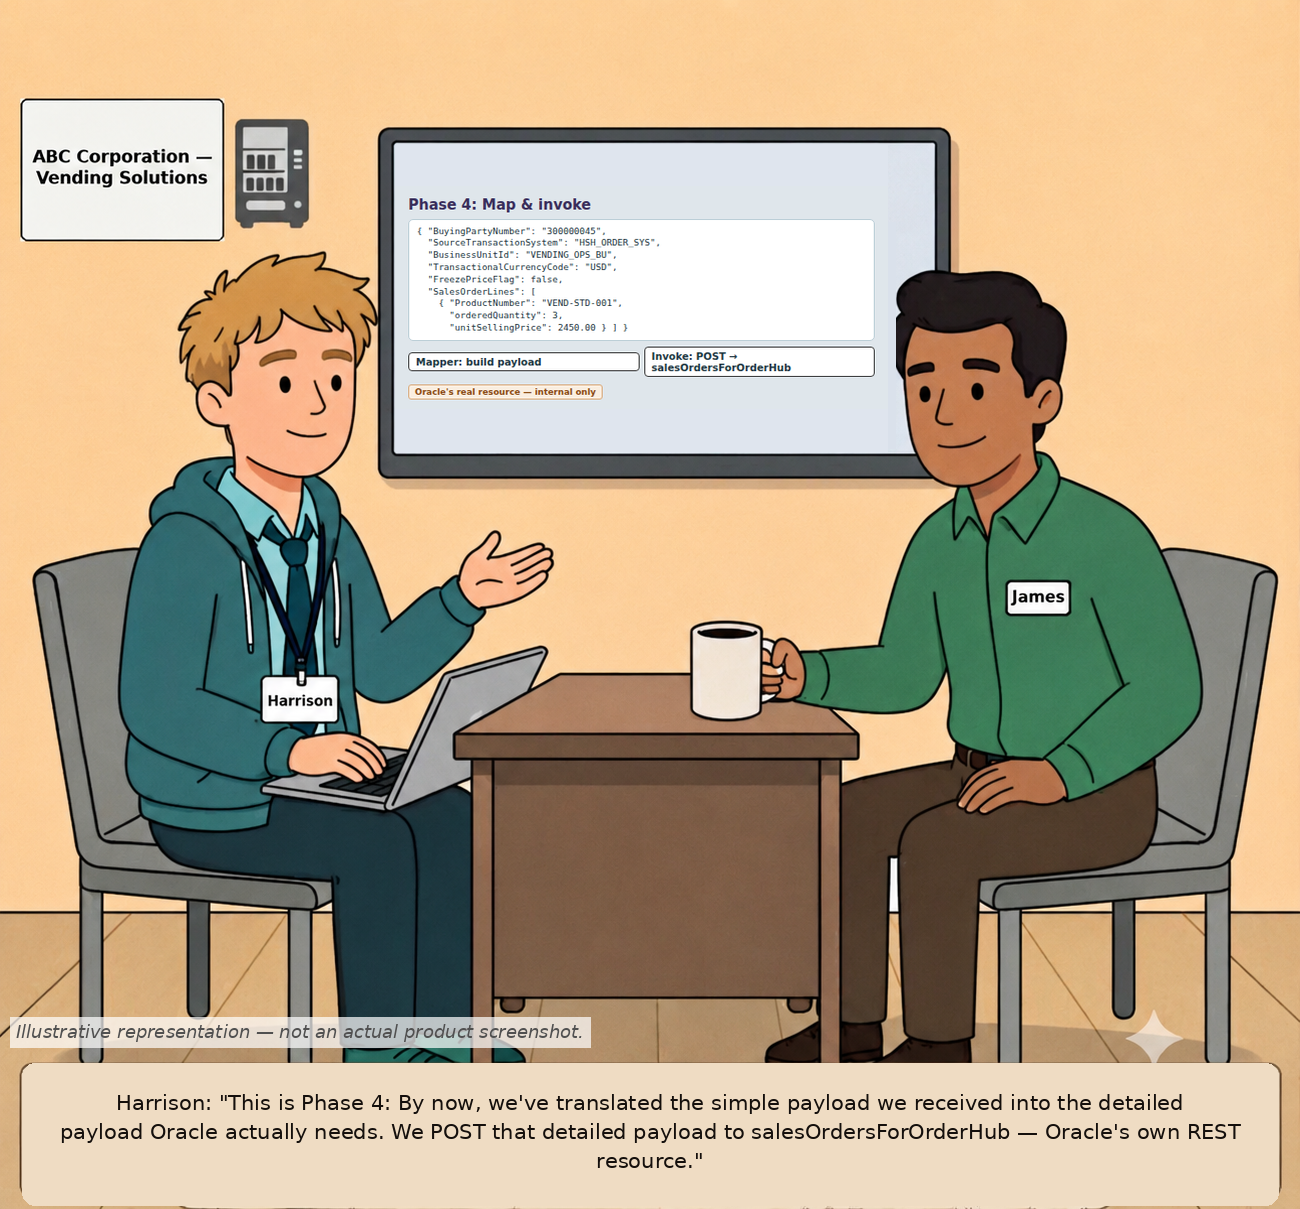
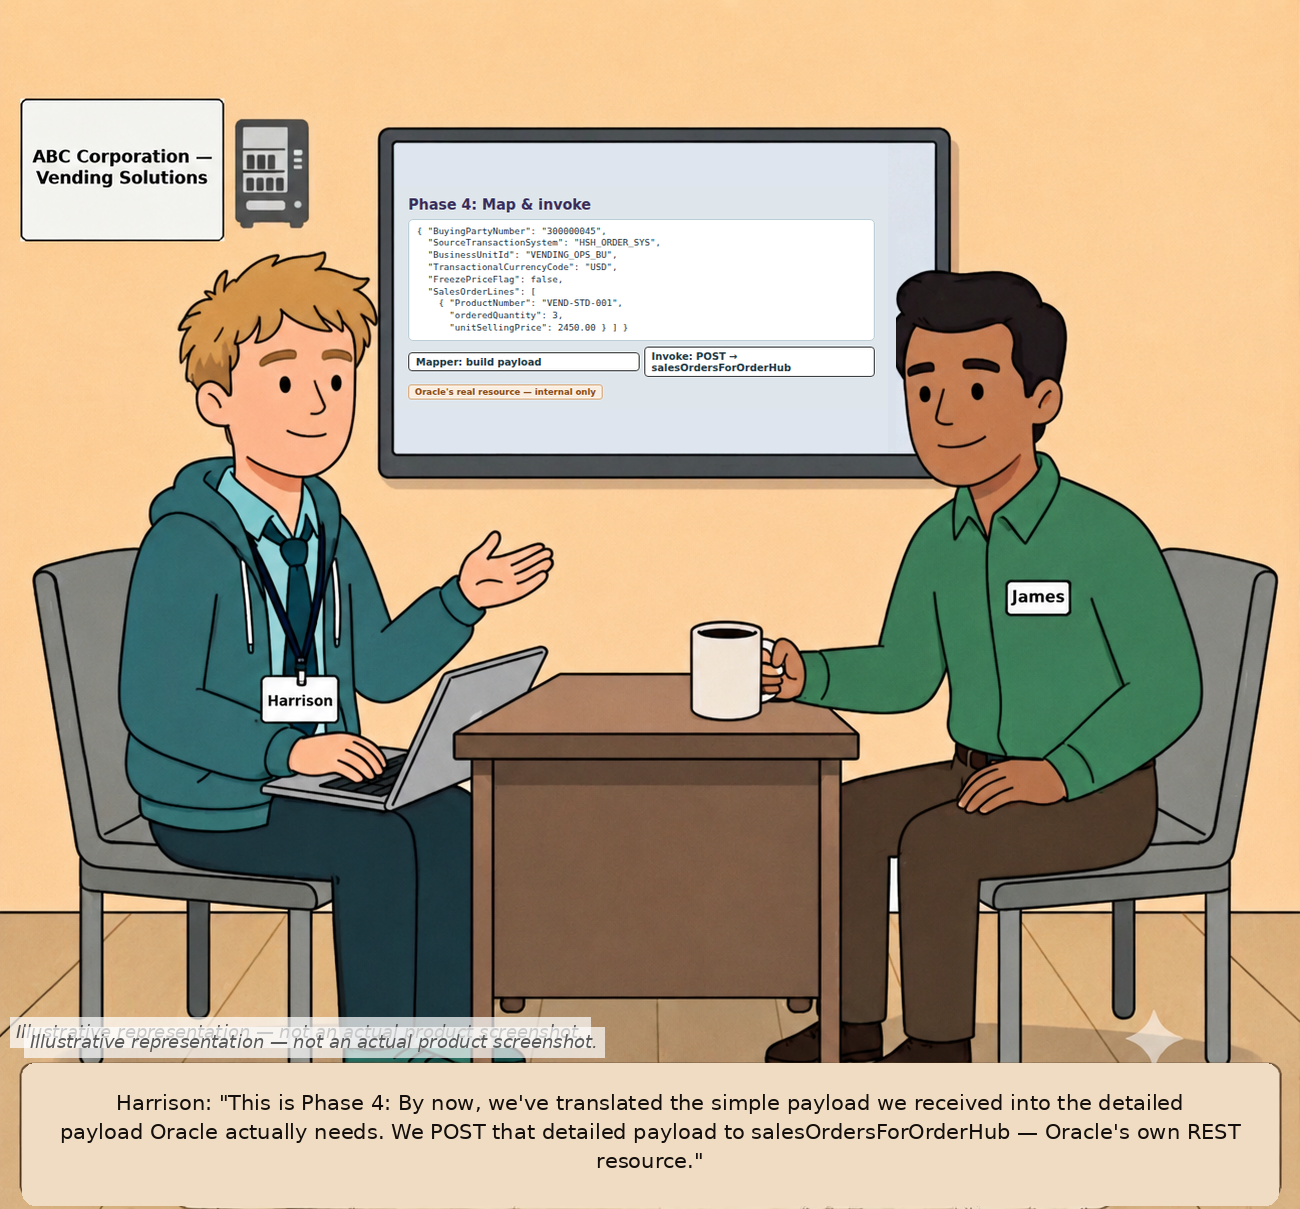
Add technical-content disclaimers; add site-wide copyright notice and LICENSE
- Added the 'Illustrative representation - not an actual product
  screenshot' disclaimer to all 6 technical scenes in the new
  OIC Under the Hood chapter (Scenes 2-7), matching the standard
  already applied in Friday Debrief
- Added a copyright line to the footer of every page that didn't
  already have one (9 pages), inserted into each page's existing
  footer text without disturbing page-specific wording
- Added a repository-root LICENSE file: All Rights Reserved, with
  an explicit note that the content is public to read but not to
  redistribute or reuse without permission, plus the existing
  Oracle trademark and fictional-company disclaimers consolidated
  in one place

Changed region(s): [[0.0, 0.8263, 0.4615, 0.8875]]

diff --git a/renewal-promotion-deep-dive/index.html b/renewal-promotion-deep-dive/index.html
@@ -452,7 +452,7 @@
     <div class="footer">
       <p>Created by <a href="https://www.linkedin.com/in/veniltirou" target="_blank">Venil Tirou</a>
       &mdash; Oracle CX Functional Consultant</p>
-      <p style="margin-top:6px;">A small nod to a big milestone &mdash; 250 years of US independence. This is an
+      <p style="margin-top:6px;">© 2026 Venil Tirou. All rights reserved. A small nod to a big milestone &mdash; 250 years of US independence. This is an
       independently created educational resource. Not affiliated with or endorsed by Oracle Corporation.
       ABC Corporation and XYZ Corporation are fictional examples, and the promotion described is illustrative.</p>
     </div>

diff --git a/compound-amendment-deep-dive/index.html b/compound-amendment-deep-dive/index.html
@@ -504,7 +504,7 @@
     <div class="footer">
       <p>Created by <a href="https://www.linkedin.com/in/veniltirou" target="_blank">Venil Tirou</a>
       &mdash; Oracle CX Functional Consultant</p>
-      <p style="margin-top:6px;">This is an independently created educational resource.
+      <p style="margin-top:6px;">© 2026 Venil Tirou. All rights reserved. This is an independently created educational resource.
       Not affiliated with or endorsed by Oracle Corporation. ABC Corporation and XYZ Corporation
       are fictional examples.</p>
     </div>

diff --git a/quote-to-cash/index.html b/quote-to-cash/index.html
@@ -222,7 +222,7 @@
 
     <div class="footer">
       <p>Created by <a href="https://www.linkedin.com/in/veniltirou" target="_blank">Venil Tirou</a> — Oracle CX Functional Consultant</p>
-      <p style="margin-top:6px;">This is an independently created educational resource. Not affiliated with or endorsed by Oracle Corporation.</p>
+      <p style="margin-top:6px;">© 2026 Venil Tirou. All rights reserved. This is an independently created educational resource. Not affiliated with or endorsed by Oracle Corporation.</p>
     </div>
 
   </main>

diff --git a/customer-data-management/index.html b/customer-data-management/index.html
@@ -466,7 +466,7 @@
     <div class="footer">
       <p>Created by <a href="https://www.linkedin.com/in/veniltirou"
          target="_blank">Venil Tirou</a> — Oracle CX Functional Consultant</p>
-      <p style="margin-top:6px;">This is an independently created educational resource.
+      <p style="margin-top:6px;">© 2026 Venil Tirou. All rights reserved. This is an independently created educational resource.
       Not affiliated with or endorsed by Oracle Corporation.</p>
     </div>
 

diff --git a/index.html b/index.html
@@ -413,7 +413,7 @@
     <div class="footer">
       <p>Created by <a href="https://www.linkedin.com/in/veniltirou"
          target="_blank">Venil Tirou</a> — Oracle CX Functional Consultant</p>
-      <p style="margin-top:6px;">This is an independently created educational resource.
+      <p style="margin-top:6px;">© 2026 Venil Tirou. All rights reserved. This is an independently created educational resource.
       Not affiliated with or endorsed by Oracle Corporation.</p>
     </div>
 

diff --git a/oic-under-the-hood/index.html b/oic-under-the-hood/index.html
@@ -464,7 +464,7 @@
     <div class="footer">
       <p>Created by <a href="https://www.linkedin.com/in/veniltirou"
          target="_blank">Venil Tirou</a> — Oracle CX Functional Consultant</p>
-      <p style="margin-top:6px;">This is an independently created educational resource.
+      <p style="margin-top:6px;">© 2026 Venil Tirou. All rights reserved. This is an independently created educational resource.
       Not affiliated with or endorsed by Oracle Corporation.</p>
     </div>
 

diff --git a/subscription-management/index.html b/subscription-management/index.html
@@ -430,7 +430,7 @@
     <div class="footer">
       <p>Created by <a href="https://www.linkedin.com/in/veniltirou"
          target="_blank">Venil Tirou</a> — Oracle CX Functional Consultant</p>
-      <p style="margin-top:6px;">This is an independently created educational resource.
+      <p style="margin-top:6px;">© 2026 Venil Tirou. All rights reserved. This is an independently created educational resource.
       Not affiliated with or endorsed by Oracle Corporation.</p>
     </div>
 

diff --git a/usage-billing-deep-dive/index.html b/usage-billing-deep-dive/index.html
@@ -449,7 +449,7 @@
     <div class="footer">
       <p>Created by <a href="https://www.linkedin.com/in/veniltirou"
          target="_blank">Venil Tirou</a> — Oracle CX Functional Consultant</p>
-      <p style="margin-top:6px;">This is an independently created educational resource.
+      <p style="margin-top:6px;">© 2026 Venil Tirou. All rights reserved. This is an independently created educational resource.
       Not affiliated with or endorsed by Oracle Corporation.</p>
     </div>
 

diff --git a/docs/index.html b/docs/index.html
@@ -496,7 +496,7 @@
     <div class="footer">
       <p>Created by <a href="https://www.linkedin.com/in/veniltirou"
          target="_blank">Venil Tirou</a> — Oracle CX Functional Consultant</p>
-      <p style="margin-top:6px;">This is an independently created educational
+      <p style="margin-top:6px;">© 2026 Venil Tirou. All rights reserved. This is an independently created educational
       resource. Not affiliated with or endorsed by Oracle Corporation.</p>
     </div>
 
